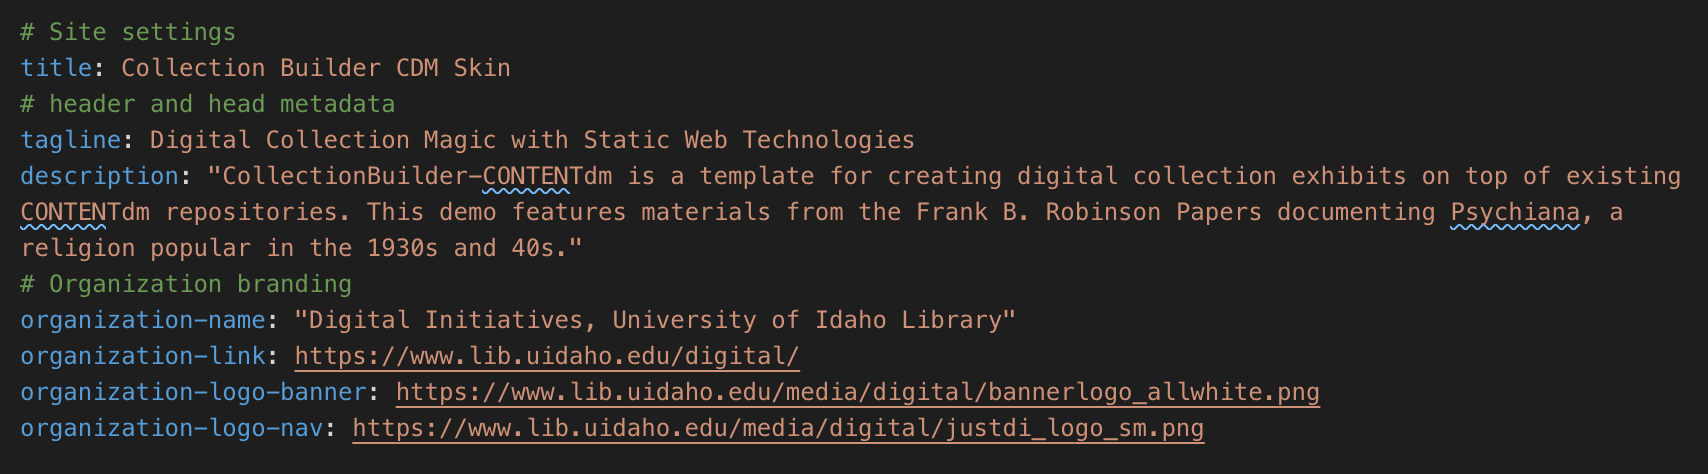
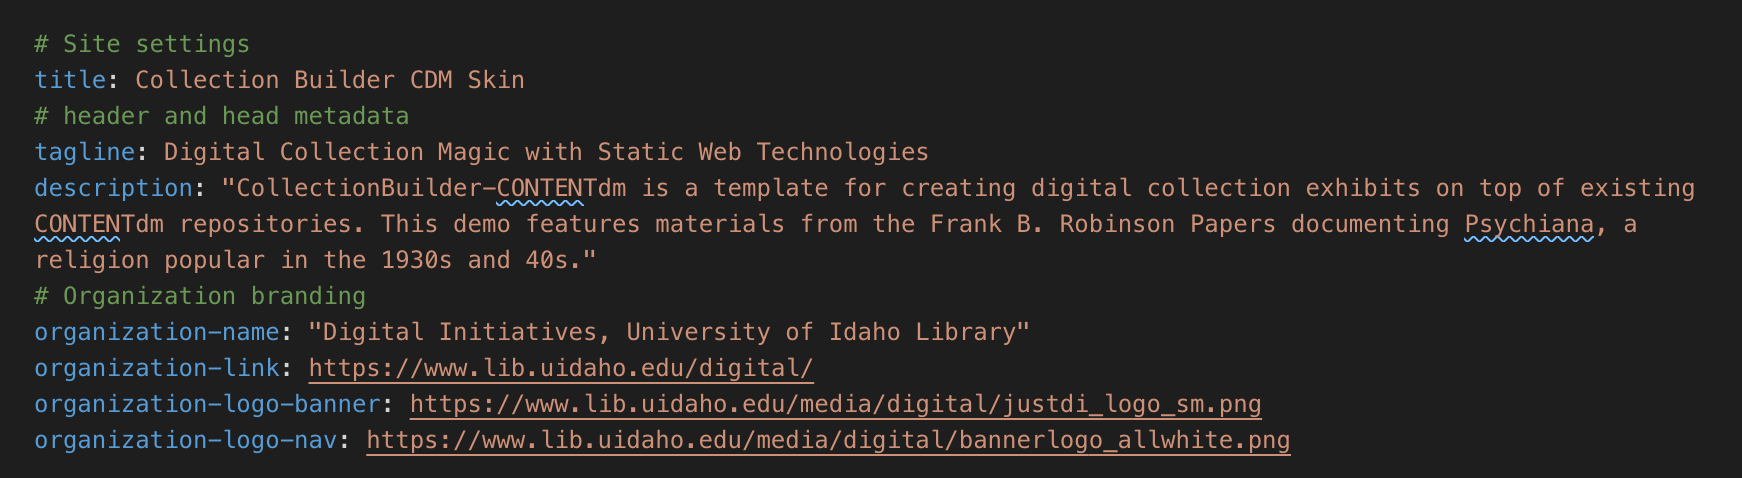
updates theme and config

Changed region(s): [[0.0, 0.0591, 0.993, 0.9747]]

diff --git a/_includes/workshop/theme.md b/_includes/workshop/theme.md
@@ -1,8 +1,8 @@
 The **theme.yml** file controls CollectionBuilder's display options. These variables impact every page the site builds, so you should be sure to go through each one as you create your site.
 
-{% include bootstrap/alert.md text="Before you start, locate and open the **theme.yml** file in the repository's **_data** folder." color="success" %}
+{% include bootstrap/alert.md text="Before you start, locate and open the **theme.yml** file in the repository's **_data** folder.
 
-This file controls bits of almost every page used, including: 
+This file controls bits of almost every page used, including: " color="success" %}
 
 - [Home Page](#home)
 - [Browse Page](#browse)
@@ -22,7 +22,8 @@ This file controls bits of almost every page used, including:
 {% include bootstrap/image.md img="/theme/home.jpg" %}
 
 {% capture home-text %}
-*Note:* The features that display on the home page can be customized via the "home-infographic.html" file in the layouts folder. More on customizing that file can be found in our [finishing section](finishing.html#home)
+
+{% include bootstrap/alert.md text="**Note:** The features that display on the home page can be customized via the 'home-infographic.html' file in the layouts folder. More on customizing that file can be found in our [finishing section](finishing.html#home)" color="success" %} 
 
 Home Page Banner:
 
@@ -82,7 +83,7 @@ Home Page Features:
 
 {% include bootstrap/image.md img="/theme/browse.jpg" %}
 
-{% include bootstrap/card.md text="See our [Customizations page](customization.html) and the `config-browse.csv` for these options." %}
+{% include bootstrap/card.md text="See our [Customizations page](customization.html) and the `config-browse.csv` to configure the Browse page." %}
 
 
 {:.py-4 .mt-4 #item}
@@ -186,9 +187,15 @@ Home Page Features:
 
 {% include bootstrap/image.md img="/theme/locations.jpg" %}
 
-{% include bootstrap/alert.md text="***Important note:*** In order to have this page appear on your site, you must also add a row in the [_data/config-nav.csv](customization.html#config-nav) that reads: `Locations,locations.html`" color="success" %}
 
 {% capture location-text %}
+
+{% capture location %}
+***Important note:*** In order to have this page appear on your site, you must also add a row in the [_data/config-nav.csv](customization.html#config-nav) that reads: `Locations,locations.html`.
+{% endcapture %}
+
+{% include bootstrap/alert.md text=location color="success" %}
+
 This page functions exactly as the Subjects page does. 
 
 - **locations-page**: Turns location generation on (`true`) or off (`false`). 
@@ -220,7 +227,8 @@ This page functions exactly as the Subjects page does.
 {% include bootstrap/image.md img="/theme/timeline.jpg" %}
 
 {% capture timeline-text %}
-The Timeline page is built by year, with each year become a row where thumbnail versions of the items appear. **This section will let you determine which years are in the dropdown button at the top right of the Timeline page. This button allows a user to jump down the page.** 
+
+{% include bootstrap/alert.md text="The Timeline page is built by year, with each year become a row where thumbnail versions of the items appear. **This section will let you determine which years are in the dropdown button at the top right of the Timeline page. This button allows a user to jump down the page.** " color="success" %} 
 
 - **year-navigation**: Sets years to appear in Timeline dropdown nav. 
 	- *Tip*: If left blank, these will auto-generate. (We recommend leaving this blank.)
@@ -241,7 +249,8 @@ The Timeline page is built by year, with each year become a row where thumbnail 
 {% include bootstrap/image.md img="/theme/data.jpg" %}
 
 {% capture data-text %}
-For the Data section, copy and paste the first row of your collection metadata CSV (i.e. your metadata fields) into this variable. This variable determines what metadata will be made available for download via the "Download Data" options on the Home page and on the Data page. 
+
+{% include bootstrap/alert.md text="For the Data section, copy and paste the first row of your collection metadata CSV (i.e. your metadata fields) into this variable. This variable determines what metadata will be made available for download via the 'Download Data' options on the Home page and on the Data page." color="success" %} 
 
 - **metadata-export-fields**: A list of metadata fields available for export via data downloads.
 	- *Tip*: paste in first row of csv 
@@ -260,14 +269,21 @@ For the Data section, copy and paste the first row of your collection metadata C
 
 # Advanced Theme Options
 
-### Images 
+{:.py-4 .mt-4}
+
+## Images 
 
 {% include bootstrap/image.md img="/theme/images.jpg" %}
 
 {% capture images-text %}
+
+{% capture imagesalert %}
 This is a CONTENTdm specific variable section for adjusting size of images used throughout the site. 
 
 *Tip*: If your images are appearing blurry or take too long to load, try adjusting the image-sizing settings.
+{% endcapture %}
+
+{% include bootstrap/alert.md text=imagesalert color="success" %} 
 
 - **image-percentage-large**:
 	- Default `70`
@@ -287,11 +303,16 @@ This is a CONTENTdm specific variable section for adjusting size of images used 
 {:.py-4 .mt-4 #bootstrap}
 ***
 
+## Bootstrap Themes
+
 {% include bootstrap/image.md img="/theme/advanced.jpg" %}
 
-{% capture bootstrap-text %}
-### Bootstrap Theme Options
-These options will adjust your site's color and look. 
+{% capture theme-text %}
+
+### Theme Options:
+
+{% include bootstrap/alert.md text="These options will adjust your site's color and look." color="success" %} 
+
 
 - **navbar-color**: Choose from `navbar-light` for use with light background colors, or `navbar-dark` for dark background colors navbar-dark
 	- Options:  `navbar-light`, `navbar-dark`
@@ -300,14 +321,10 @@ These options will adjust your site's color and look.
 - **navbar-background**: Choose from the background colors for Bootstrap. 
 	- Options: `bg-primary`, `bg-secondary`, `bg-success`, `bg-danger`, `bg-warning`, `bg-info`, `bg-light`, `bg-dark`, `bg-white`, `bg-dark`]
 	- example --> `navbar-background: bg-dark`
-{% endcapture %}
 
-{% include bootstrap/card.md text=bootstrap-text %}
+### Theme Fonts:
 
-### Theme Fonts
-
-{% capture theme-text %}
-These options change the way the fonts appear throughout your collection. If you leave any option blank, it will revert to the base Bootstrap 4 CSS style(s).
+{% include bootstrap/alert.md text="These options change the way the fonts appear throughout your collection. If you leave any option blank, it will revert to the base Bootstrap 4 CSS style(s)." color="success"%}
 
 - **base-font-size**: Changes the base size for fonts throughout the site.
 	- example --> `base-font-size: 1.2em`
@@ -320,23 +337,22 @@ These options change the way the fonts appear throughout your collection. If you
 
 - **base-font-family**: Changes the font family; if it's a google family, you'll need to adjust the _includes/header.html file as well to include the link to Google's CSS style file for that font.
 	- Comment out (using `#`) for bootstrap defaults  
-	- example --> `base-font-family: Georiga; serif;` 
-{% endcapture %}
+	- example --> `base-font-family: Georiga; serif;`
 
-{% include bootstrap/card.md text=theme-text %}
+### Bootswatch:
 
-### Change Theme with Bootswatch
-{% capture bootswatch-text %}
-Bootswatch creates themes for Bootstrap 4 sites. You can check them out here: <https://bootswatch.com/>.
-
-Choose from: cerulean; cosmo; cyborg; darkly; flatly; journal; litera; lumen; lux; materia; minty; pulse; sandstone; simplex; sketchy; slate; solar; spacelab; superhero; united; yeti 
+{% include bootstrap/alert.md text="Bootswatch creates themes for Bootstrap 4 sites. You can check them out here: <https://bootswatch.com/>."  color="success"%}
 
 - **bootswatch**: leave blank or comment out for plain bootstrap
 	- Options: cerulean; cosmo; cyborg; darkly; flatly; journal; litera; lumen; lux; materia; minty; pulse; sandstone; simplex; sketchy; slate; solar; spacelab; superhero; united; yeti
 	- example --> `bootswatch: cerulean`
+
 {% endcapture %}
 
-{% include bootstrap/card.md text=bootswatch-text %}
+{% include bootstrap/card.md text=theme-text %}
+
+
+
 
 {:.py-4 .mt-4}
 ***

diff --git a/_includes/workshop/config-file.md b/_includes/workshop/config-file.md
@@ -19,7 +19,7 @@ The instructions below outline the edits you need to make to this file so that i
 {% include bootstrap/image.md img="/config/urlvar.jpg" %}
 
 {% capture var-title %}
-These variables need to be defined based on the url you will use to serve your site: 
+These variables should be defined based on the url you will use to serve your site:
 {% endcapture %}
 
 {% capture var-text %}
@@ -74,13 +74,14 @@ These are the primary settings of your site:
 	- This is the url connected to your organization name.
 	- example --> `https://www.lib.uidaho.edu/digital/`
 
-- **organization-logo-banner**: The image source for your organization logo that appears above your site title. 
+- **organization-logo-banner**: The image source for your organization logo that appears in your site nav.
+	- This image will appear in the top right corner of the window on all pages *except* the home page. This logo is connected to the **organization-link** url you entered above.
+	- example --> `https://www.lib.uidaho.edu/media/digital/justdi_logo_sm.png`
+
+- **organization-logo-nav**: The image source for your organization logo that appears above your site title. 
 	- This image will appear above the title in the banner on your collection's homepage. This logo is connected to the **organization-link** url you entered above.
 	- example --> `https://www.lib.uidaho.edu/media/digital/bannerlogo_allwhite.png`
 
-- **organization-logo-nav**: The image source for your organization logo that appears in your site nav.
-	- This image will appear in the top right corner of the window on all pages *except* the home page. This logo is connected to the **organization-link** url you entered above.
-	- example --> `https://www.lib.uidaho.edu/media/digital/justdi_logo_sm.png`
 
 {% endcapture %}
 
@@ -136,7 +137,7 @@ The following **Page Gen** variables read your metadata file and build individua
 {% include bootstrap/card.md title=pagegen-title text=pagegen-text %}
 
 {% capture pagealert %}
-Important!: You *must* change the data field in **Page Gen** to reflect the metadata CSV the collection is using. ***This should be the same entry as "metadata" above***
+**Important!:** You *must* change the data field in **Page Gen** to reflect the metadata CSV the collection is using. ***This should be the same entry as "metadata" above***
 {% endcapture %}
 
 {% include bootstrap/alert.md text=pagealert color="success" %}
